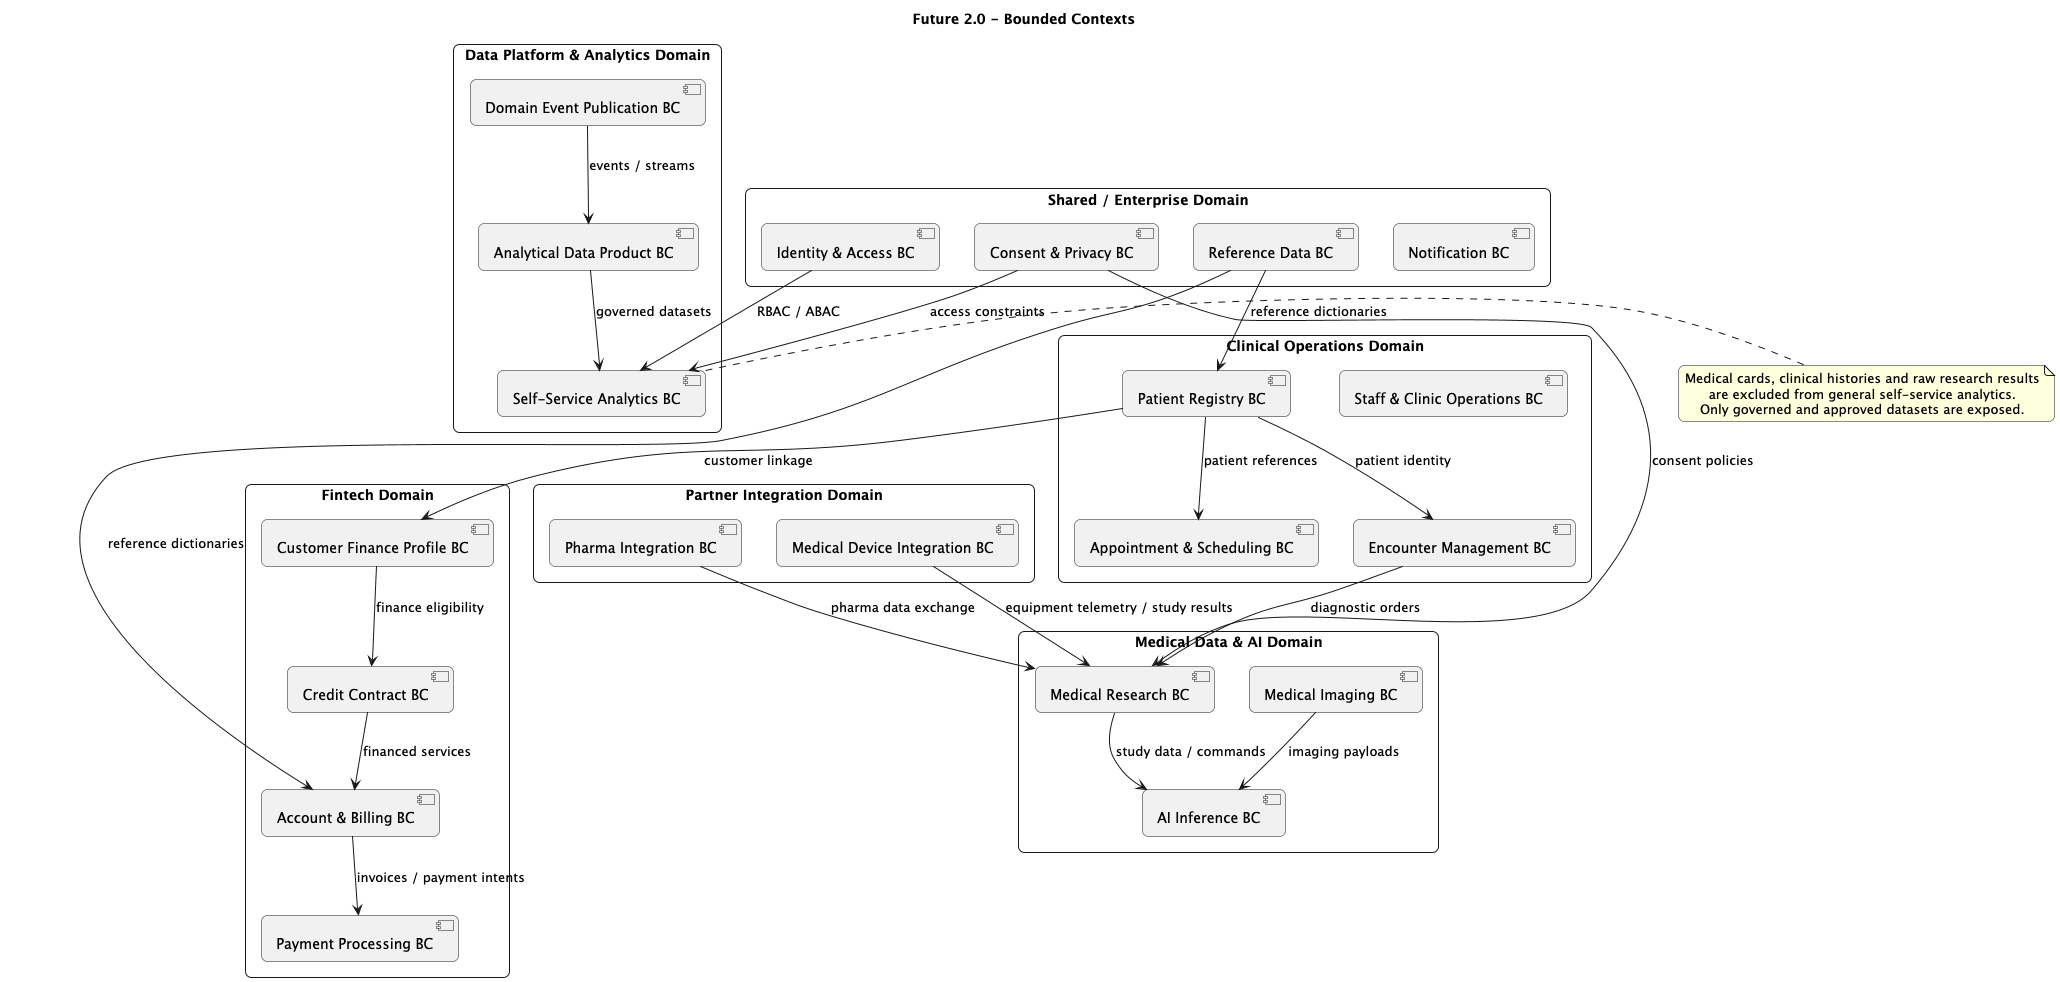
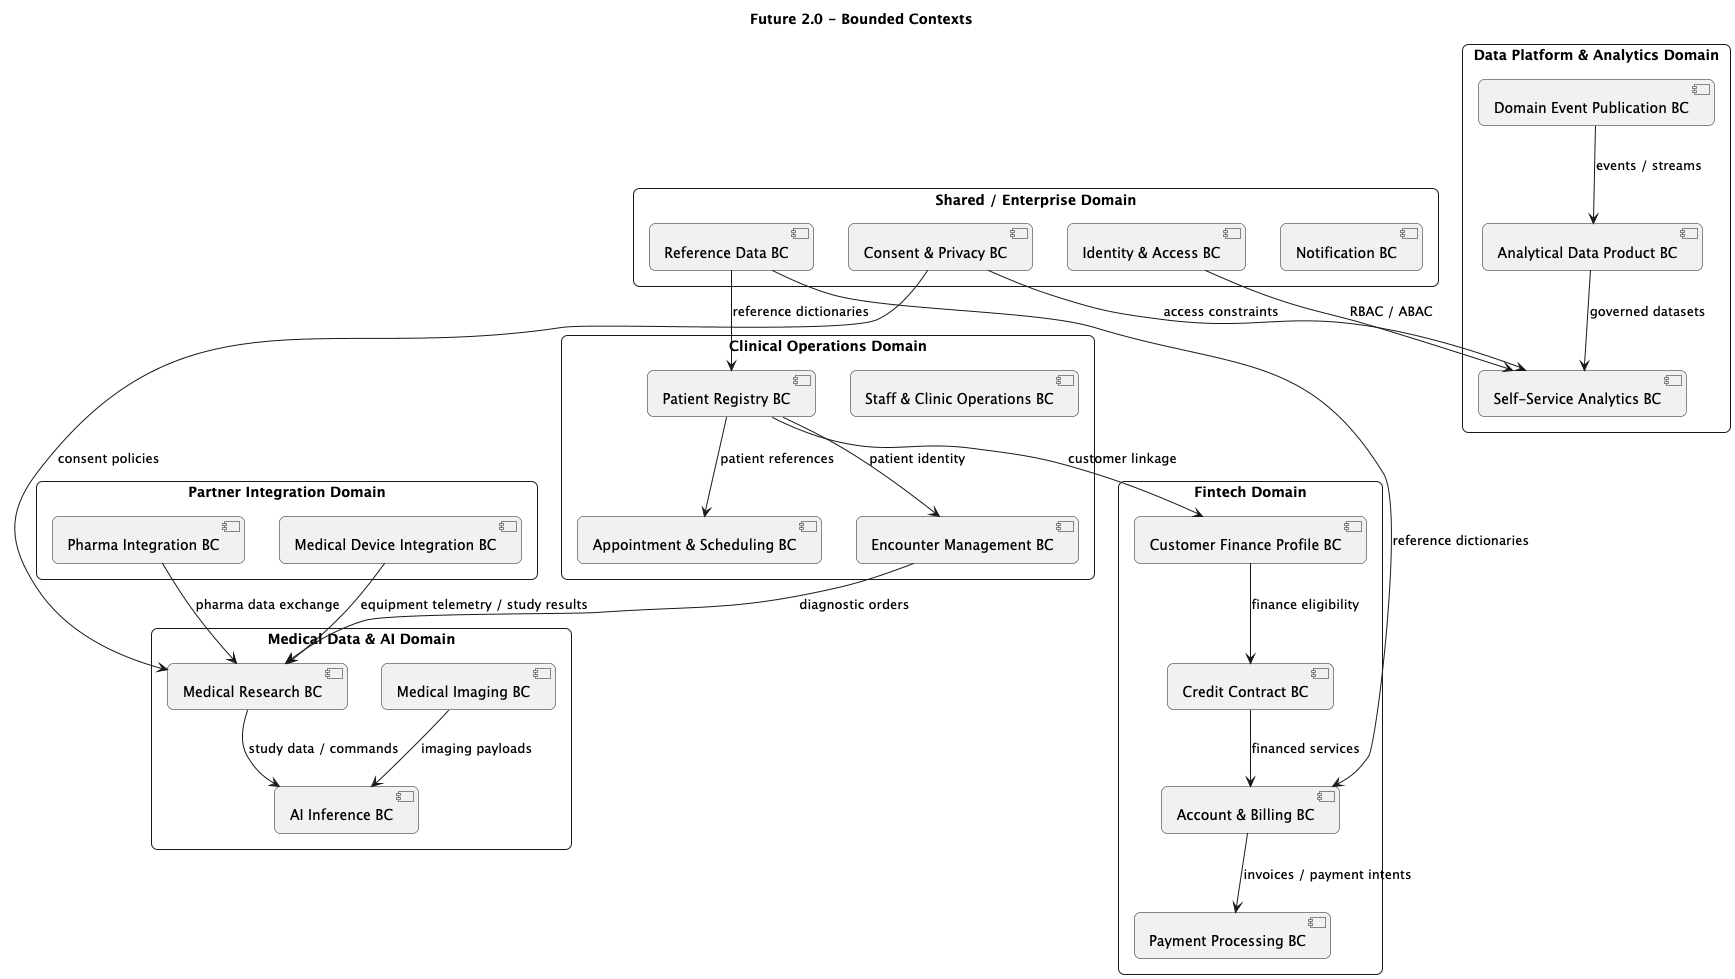
add: Task4-5 fix

diff --git a/Task3Advanced/risk-map.md b/Task3Advanced/risk-map.md
@@ -6,7 +6,7 @@
 |---|---|---|---|---|
 | Сохранение бизнес-логики одновременно в legacy DWH и в новых сервисах | Архитектурный | Высокая | Высокое | Риск дублирования логики, расхождения расчетов и конфликтов authoritative source |
 | Неправильное разделение доменов и bounded contexts | Архитектурный | Средняя | Высокое | Может привести к повторению монолитной модели в распределенной среде |
-| Попадание запрещённых медицинских данных в self-service аналитику | Архитектурный / Compliance | Средняя | Высокое | Критично для регуляторики и репутации |
+| Попадание запрещенных медицинских данных в self-service аналитику | Архитектурный / Compliance | Средняя | Высокое | Критично для регуляторики и репутации |
 | Слишком ранний отказ от legacy DWH и Camel | Архитектурный | Средняя | Высокое | Риск срыва операционных процессов и отчетности |
 | Отсутствие единых data contracts и schema governance | Архитектурный | Высокая | Высокое | Event platform быстро станет хаотичной и трудно поддерживаемой |
 

diff --git a/Task4Advanced/aggregates.md b/Task4Advanced/aggregates.md
@@ -187,4 +187,4 @@
 - заказ связан с клиентом/назначением;
 - заказ имеет статусный lifecycle;
 - поставка подтверждается отдельным событием от партнера.
-**Комментарий:** помогает подключать новые внешние бизнес-направления без жёсткой связности.
+**Комментарий:** помогает подключать новые внешние бизнес-направления без жесткой связности.

diff --git a/Task3Advanced/risk-management-plan.md b/Task3Advanced/risk-management-plan.md
@@ -27,7 +27,7 @@
 - CI-проверки совместимости схем;
 - стандарты для idempotency, retry, DLQ и replay.
 
-### 2.3. Попадание запрещённых медицинских данных в self-service аналитику
+### 2.3. Попадание запрещенных медицинских данных в self-service аналитику
 **Меры:**
 - выделенный secure medical contour;
 - classification / policy engine;

diff --git a/Task5Advanced/tech-radar.md b/Task5Advanced/tech-radar.md
@@ -1,6 +1,6 @@
 # Технический радар
 
-Ниже приведён расширенный технический радар в стиле **AOE Technology Radar**.
+Ниже приведен расширенный технический радар в стиле **AOE Technology Radar**.
 
 ## Кольца
 - **Adopt** — использовать как стандарт целевой архитектуры;

diff --git a/Task4Advanced/events.md b/Task4Advanced/events.md
@@ -340,7 +340,7 @@
 
 ## 21. PaymentSucceeded
 **Source context:** Payment Processing BC  
-**Семантика:** платеж успешно завершён  
+**Семантика:** платеж успешно завершен  
 **Минимальный контракт:**
 - `event_id`
 - `event_time`
